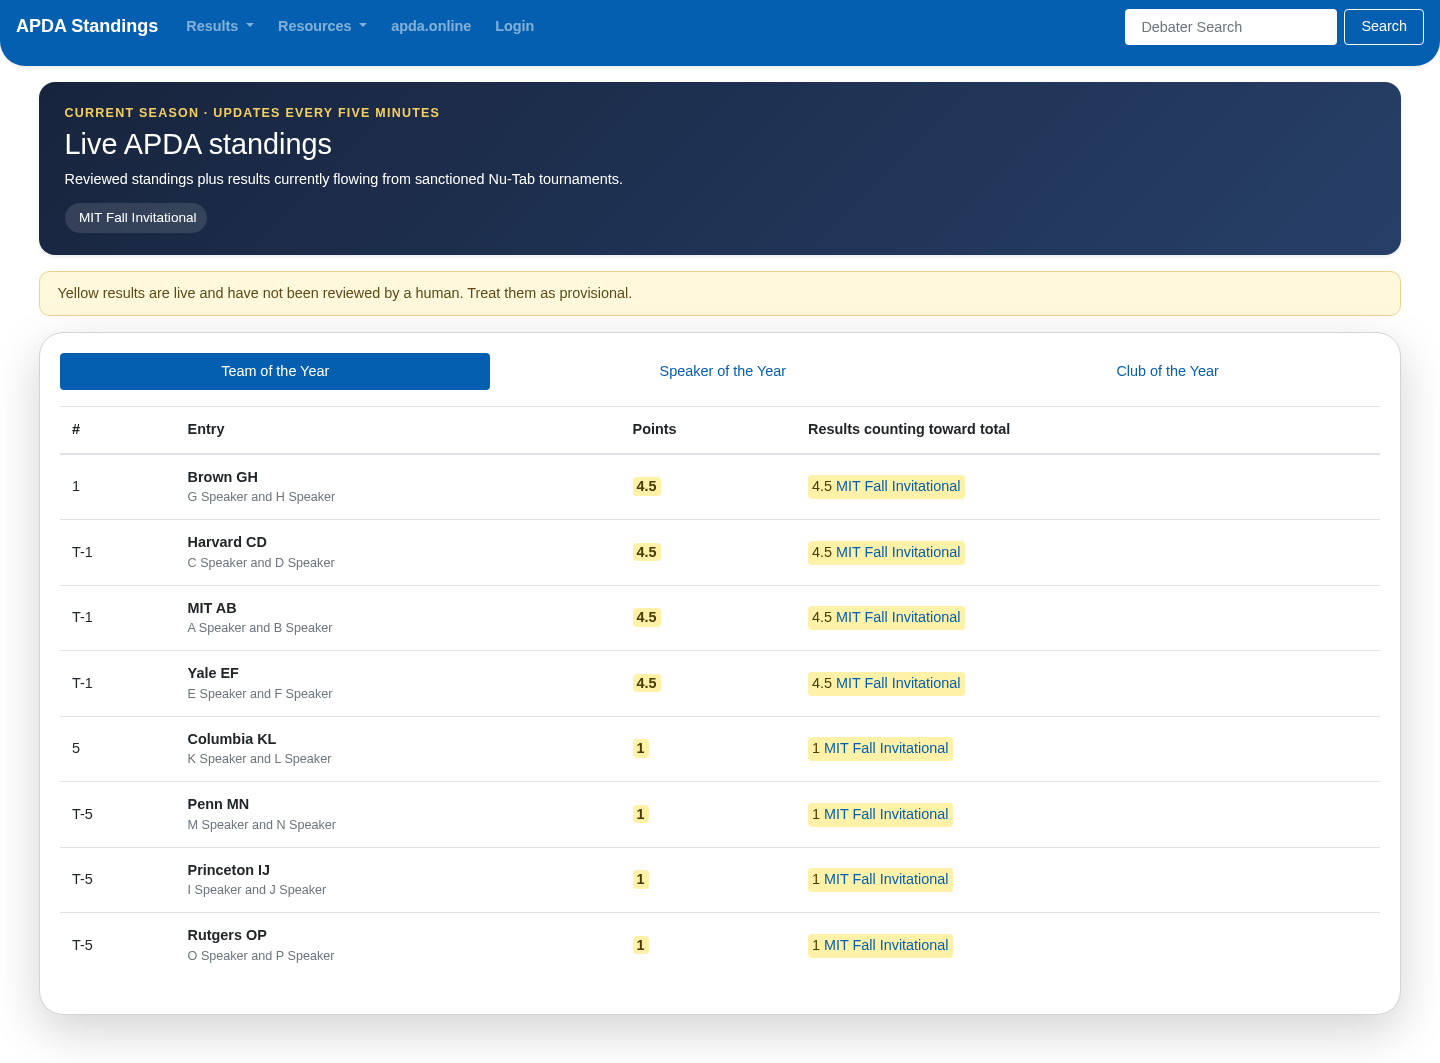
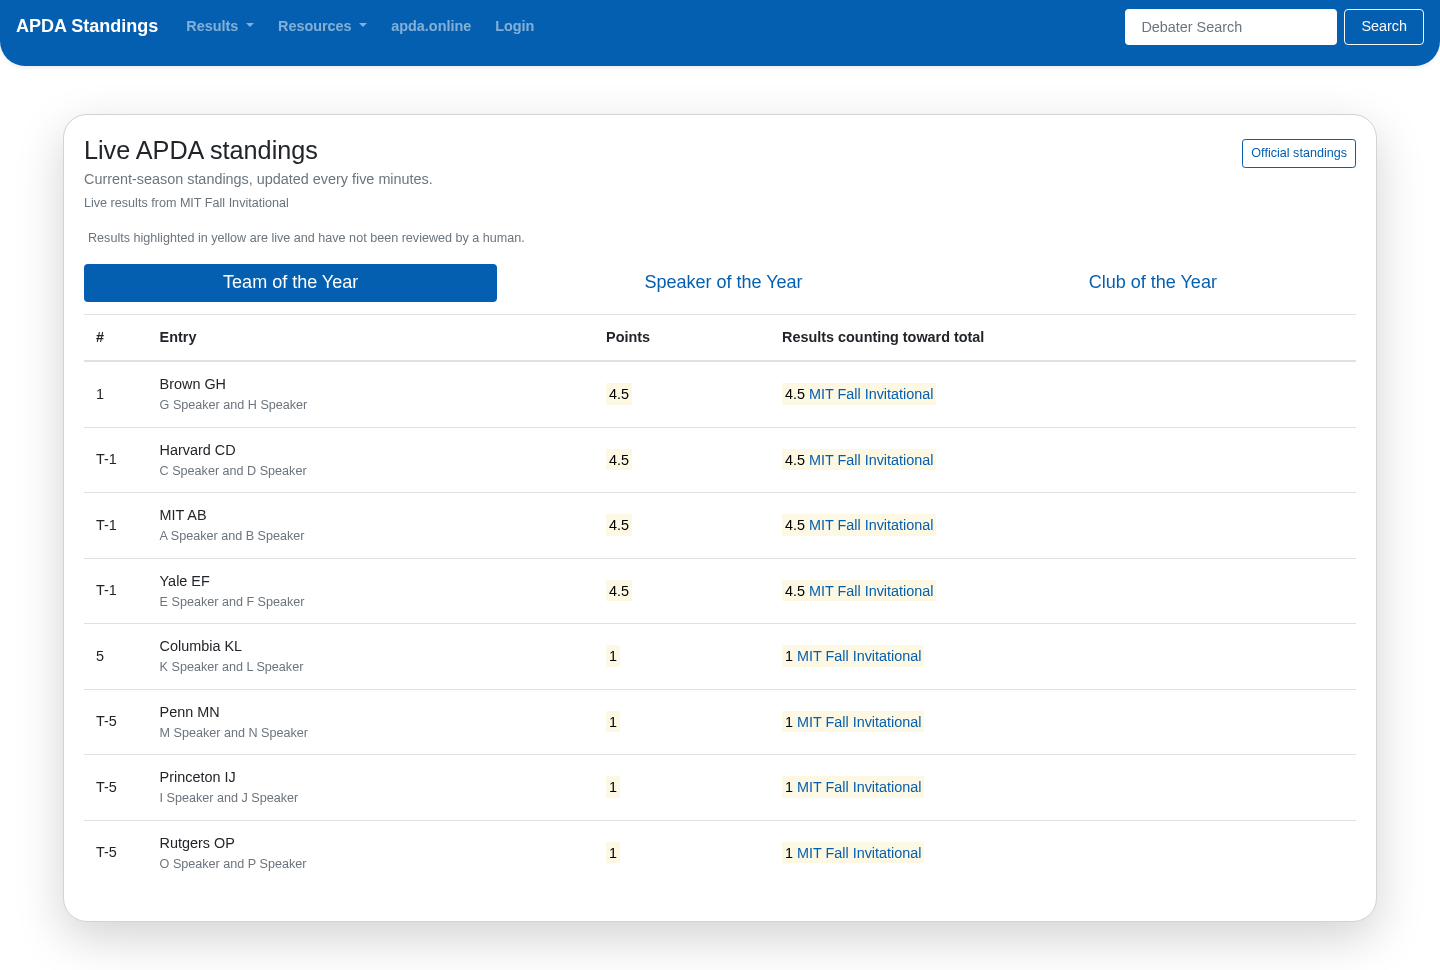
Align live standings with public site design

diff --git a/core/templates/core/live.html b/core/templates/core/live.html
@@ -1,74 +1,96 @@
 {% extends "base/base.html" %}
 {% load tags %}
 
+{% block title %}Live APDA Standings{% endblock title %}
+
 {% block content %}
-<style>
-  .live-shell { max-width: 1500px; margin: 1rem auto 3rem; }
-  .live-hero { background: linear-gradient(135deg, #17243d, #273f68); border-radius: 1rem; color: #fff; padding: 1.4rem 1.6rem; }
-  .live-kicker { color: #f4cf62; font-size: .78rem; font-weight: 700; letter-spacing: .1em; text-transform: uppercase; }
-  .live-disclaimer { background: #fff8dc; border: 1px solid #ead48c; border-radius: .65rem; color: #5c4b16; padding: .65rem .85rem; }
-  .live-chip { background: rgba(255,255,255,.12); border-radius: 999px; display: inline-block; font-size: .85rem; margin: .25rem .25rem 0 0; padding: .3rem .65rem; }
-  .live-points { white-space: nowrap; }
-  .live-highlight { background: #fff2a8 !important; color: #473b00; border-radius: .25rem; padding: .08rem .25rem; }
-  .live-marker { display: inline-block; margin: .12rem .4rem .12rem 0; white-space: nowrap; }
-  .live-table td, .live-table th { vertical-align: middle; }
-  .live-empty { color: #6c757d; padding: 2.5rem !important; text-align: center; }
-</style>
-
-<div class="live-shell px-2 px-lg-4">
-  <header class="live-hero shadow-sm mb-3">
-    <div class="live-kicker">Current season · updates every five minutes</div>
-    <h1 class="h2 mt-1 mb-2">Live APDA standings</h1>
-    <p class="mb-2">Reviewed standings plus results currently flowing from sanctioned Nu-Tab tournaments.</p>
-    {% for source in active_sources %}<span class="live-chip"><i class="fas fa-circle text-warning mr-1"></i>{{ source }}</span>{% endfor %}
-  </header>
-
-  <div class="live-disclaimer mb-3" role="note">
-    <i class="fas fa-info-circle mr-1"></i>
-    Yellow results are live and have not been reviewed by a human. Treat them as provisional.
-  </div>
-
-  <div class="card shadow-lg rounded-l8">
-    <div class="card-body">
-      <ul class="nav nav-pills nav-fill mb-3" role="tablist">
-        <li class="nav-item pr-2"><a class="nav-link active" data-toggle="tab" href="#live-toty">Team of the Year</a></li>
-        <li class="nav-item pr-2"><a class="nav-link" data-toggle="tab" href="#live-soty">Speaker of the Year</a></li>
-        {% if boards.noty %}<li class="nav-item pr-2"><a class="nav-link" data-toggle="tab" href="#live-noty">Novice of the Year</a></li>{% endif %}
-        <li class="nav-item"><a class="nav-link" data-toggle="tab" href="#live-coty">Club of the Year</a></li>
-      </ul>
-
-      <div class="tab-content">
-        {% for board_name, rows in boards.items %}
-        <section class="tab-pane fade {% if board_name == 'toty' %}show active{% endif %}" id="live-{{ board_name }}">
-          <div class="table-responsive">
-            <table class="table table-hover live-table">
-              <thead><tr><th scope="col">#</th><th scope="col">Entry</th><th scope="col">Points</th><th scope="col">Results counting toward total</th></tr></thead>
-              <tbody>
-                {% for row in rows %}
-                <tr>
-                  <td>{% if row.tied %}T-{% endif %}{{ row.place }}</td>
-                  <td>
-                    {% if row.url %}<a href="{{ row.url }}">{{ row.name }}</a>{% else %}<strong>{{ row.name }}</strong>{% endif %}
-                    {% if row.detail %}<div class="small text-muted">{{ row.detail }}</div>{% endif %}
-                  </td>
-                  <td class="live-points"><strong class="{% if row.has_live %}live-highlight{% endif %}">{{ row.points|number }}</strong></td>
-                  <td>
-                    {% for marker in row.markers %}
-                    <span class="live-marker {% if marker.live %}live-highlight{% endif %}">
-                      {{ marker.points|number }}
-                      {% if marker.url %}<a href="{{ marker.url }}" {% if marker.live %}target="_blank" rel="noopener"{% endif %}>{{ marker.tournament }}</a>{% else %}{{ marker.tournament }}{% endif %}
-                    </span>
-                    {% endfor %}
-                  </td>
-                </tr>
-                {% empty %}<tr><td colspan="4" class="live-empty">No results are available yet.</td></tr>{% endfor %}
-              </tbody>
-            </table>
-          </div>
-        </section>
-        {% endfor %}
+<div class="shadow-lg card m-lg-5 mt-2 m-1 rounded-l8">
+  <div class="card-body">
+    <div class="d-flex flex-wrap justify-content-between align-items-start mb-3">
+      <div class="mr-3">
+        <h3 class="mb-1">Live APDA standings</h3>
+        <p class="text-muted mb-1">Current-season standings, updated every five minutes.</p>
+        {% if active_sources %}
+        <p class="small text-muted mb-0">
+          Live results from {{ active_sources|join:", " }}
+        </p>
+        {% endif %}
       </div>
+      <a class="btn btn-outline-primary btn-sm mt-1" href="{% url 'core:index' %}">
+        Official standings
+      </a>
+    </div>
+
+    <p class="small text-muted mb-3" role="note">
+      <i class="fas fa-info-circle text-warning mr-1"></i>
+      Results highlighted in yellow are live and have not been reviewed by a human.
+    </p>
+
+    <h5 class="card-title text-white">
+      <ul class="nav nav-pills nav-fill" role="tablist">
+        <li class="nav-item pr-2">
+          <a class="nav-link active" data-toggle="tab" href="#live-toty">Team of the Year</a>
+        </li>
+        <li class="nav-item pr-2">
+          <a class="nav-link" data-toggle="tab" href="#live-soty">Speaker of the Year</a>
+        </li>
+        {% if boards.noty %}
+        <li class="nav-item pr-2">
+          <a class="nav-link" data-toggle="tab" href="#live-noty">Novice of the Year</a>
+        </li>
+        {% endif %}
+        <li class="nav-item">
+          <a class="nav-link" data-toggle="tab" href="#live-coty">Club of the Year</a>
+        </li>
+      </ul>
+    </h5>
+
+    <div class="tab-content">
+      {% for board_name, rows in boards.items %}
+      <section class="tab-pane fade {% if board_name == 'toty' %}show active{% endif %}" id="live-{{ board_name }}">
+        <div class="table-responsive standings-scroll">
+          <table class="table table-hover">
+            <thead>
+              <tr>
+                <th scope="col" width="5%">#</th>
+                <th scope="col">Entry</th>
+                <th scope="col">Points</th>
+                <th scope="col">Results counting toward total</th>
+              </tr>
+            </thead>
+            <tbody>
+              {% for row in rows %}
+              <tr>
+                <td>{% if row.tied %}T-{% endif %}{{ row.place }}</td>
+                <td>
+                  {% if row.url %}<a href="{{ row.url }}">{{ row.name }}</a>{% else %}{{ row.name }}{% endif %}
+                  {% if row.detail %}<div class="small text-muted">{{ row.detail }}</div>{% endif %}
+                </td>
+                <td>
+                  {% if row.has_live %}<mark>{{ row.points|number }}</mark>{% else %}{{ row.points|number }}{% endif %}
+                </td>
+                <td>
+                  {% for marker in row.markers %}
+                  <span class="d-inline-block text-nowrap mr-3">
+                    {% if marker.live %}<mark>{% endif %}
+                    {{ marker.points|number }}
+                    {% if marker.url %}<a href="{{ marker.url }}" {% if marker.live %}target="_blank" rel="noopener"{% endif %}>{{ marker.tournament }}</a>{% else %}{{ marker.tournament }}{% endif %}
+                    {% if marker.live %}</mark>{% endif %}
+                  </span>
+                  {% endfor %}
+                </td>
+              </tr>
+              {% empty %}
+              <tr>
+                <td colspan="4" class="text-center text-muted py-5">No results are available yet.</td>
+              </tr>
+              {% endfor %}
+            </tbody>
+          </table>
+        </div>
+      </section>
+      {% endfor %}
     </div>
   </div>
 </div>
-{% endblock %}
+{% endblock content %}

diff --git a/core/templates/core/index.html b/core/templates/core/index.html
@@ -6,7 +6,7 @@
 {% endblock extra_head %}
 {% block content %}
     <div class="text-right mx-lg-5 mt-3 mb-n2">
-        <a class="btn btn-warning" href="{% url 'core:live_standings' %}">
+        <a class="btn btn-outline-primary" href="{% url 'core:live_standings' %}">
             <i class="fas fa-bolt mr-1"></i> View live standings
         </a>
     </div>
